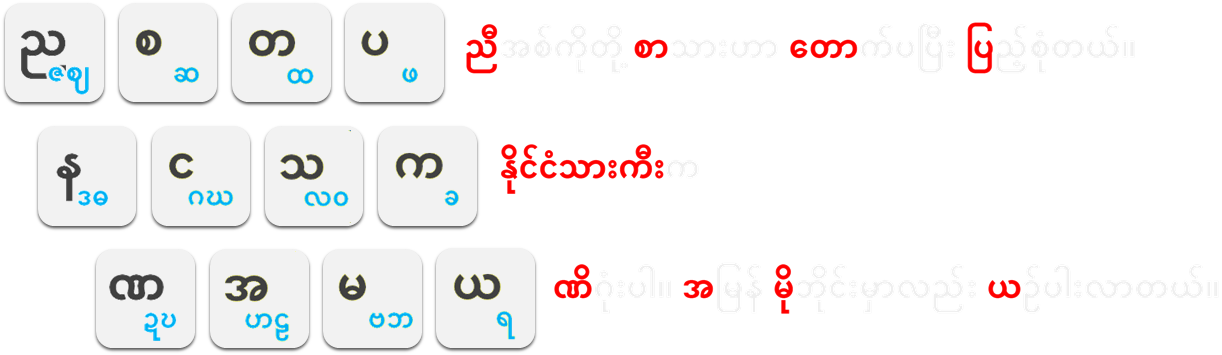
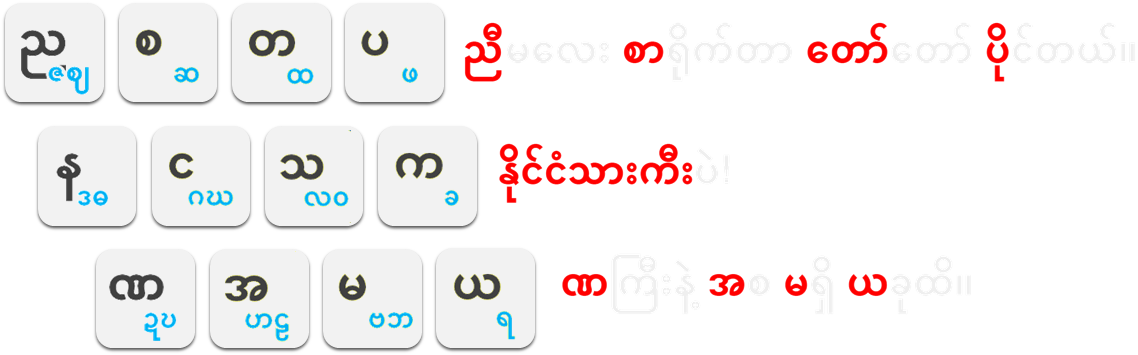
Add files via upload

diff --git a/pc_demo_windows.html b/pc_demo_windows.html
@@ -116,9 +116,9 @@
 <div id="kb-area">
   <div id="kb-row">
     <div class="mnemonic-text">
-      <p><span class="hl">ည</span>ီအစ်ကိုတို့ <span class="hl">စ</span>ာသားဟာ <span class="hl">တ</span>ောက်ပပြီး <span class="hl">ပ</span>ြည့်စုံတယ်။</p>
-      <p><span class="hl">နိုင်ငံသားကီး</span>က</p>
-      <p><span class="hl">ဏ</span>ိဂုံးပါ။ <span class="hl">အ</span>မြန် <span class="hl">မ</span>ိုဘိုင်းမှာလည်း <span class="hl">ယ</span>ဉ်ပါးလာတယ်။</p>
+      <p><span class="hl">ညီ</span>မလေး <span class="hl">စာ</span>ရိုက်တာ <span class="hl">တော်</span>တော် <span class="hl">ပို</span>င်တယ်။</p>
+      <p><span class="hl">နိုင်ငံသားကီး</span>ပဲ!</p>
+      <p><span class="hl">ဏ</span>ကြီးနဲ့ <span class="hl">အ</span>စ <span class="hl">မ</span>ရှိ <span class="hl">ယ</span>ခုထိ။</p>
     </div>
     <div id="kb-guide">
       <img id="kbdimg" src="images/pc_map.png" alt="">
